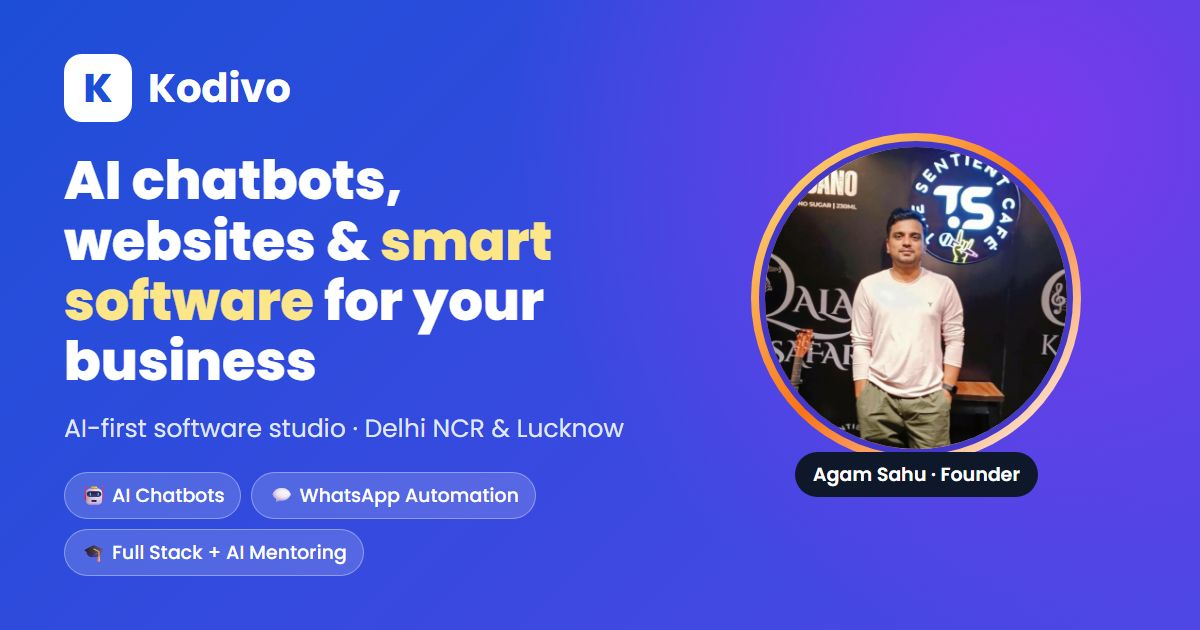
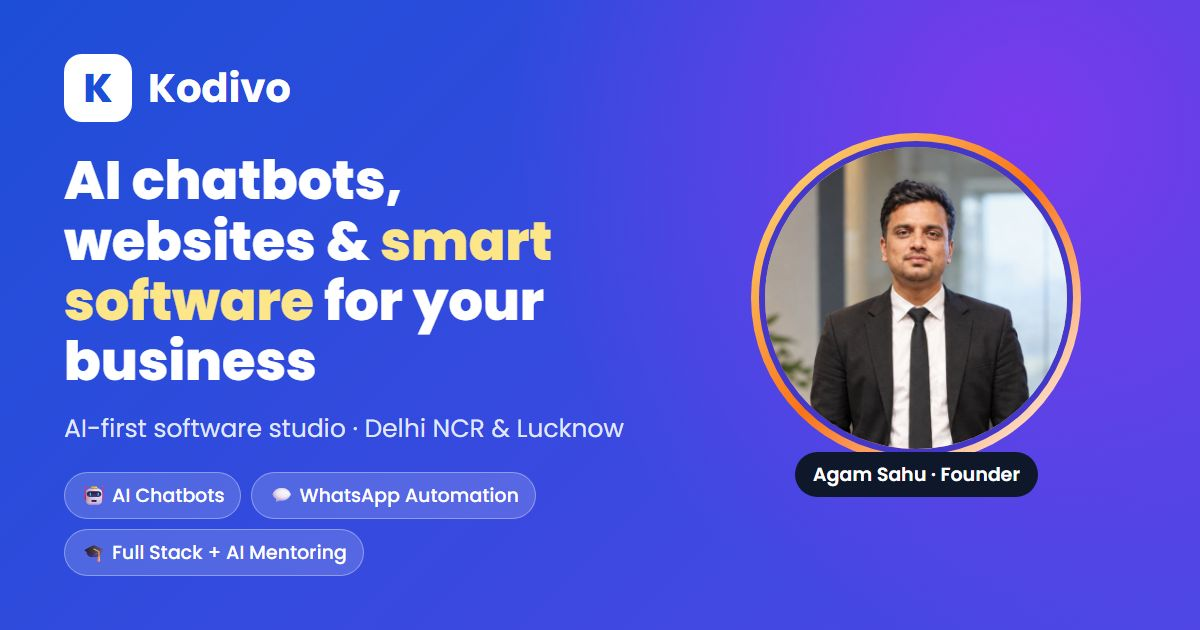
Use new professional founder photo on site and link preview

Changed region(s): [[0.6167, 0.2111, 0.8942, 0.7238]]

diff --git a/index.html b/index.html
@@ -11,7 +11,7 @@
   <meta property="og:url" content="https://agamsahu017.github.io/" />
   <meta property="og:title" content="Kodivo | AI chatbots, websites &amp; software · Delhi NCR &amp; Lucknow" />
   <meta property="og:description" content="AI-first software studio by Agam Sahu (8+ yrs). AI chatbots, WhatsApp automation, business software and websites. Launch offer for the first 10 clients." />
-  <meta property="og:image" content="https://agamsahu017.github.io/assets/og-image.jpg" />
+  <meta property="og:image" content="https://agamsahu017.github.io/assets/og-image.jpg?v=2" />
   <meta property="og:image:width" content="1200" />
   <meta property="og:image:height" content="630" />
   <meta property="og:image:alt" content="Kodivo: AI chatbots, websites and smart software, by founder Agam Sahu" />
@@ -33,7 +33,7 @@
     "description": "AI-first software studio building AI chatbots, automation, business software and websites.",
     "founder": { "@type": "Person", "name": "Agam Sahu", "jobTitle": "Founder" },
     "url": "https://agamsahu017.github.io/",
-    "image": "https://agamsahu017.github.io/assets/og-image.jpg",
+    "image": "https://agamsahu017.github.io/assets/og-image.jpg?v=2",
     "telephone": "+91-9235266579",
     "email": "agamsahu015@gmail.com",
     "address": { "@type": "PostalAddress", "addressLocality": "Lucknow", "addressRegion": "Uttar Pradesh", "addressCountry": "IN" },

diff --git a/delhi-ncr.html b/delhi-ncr.html
@@ -11,7 +11,7 @@
   <meta property="og:url" content="https://agamsahu017.github.io/delhi-ncr.html" />
   <meta property="og:title" content="AI Chatbot, Website &amp; Software in Delhi NCR | Kodivo" />
   <meta property="og:description" content="AI chatbots, WhatsApp automation, websites and custom software for businesses and startups in Delhi, Noida, Gurugram and Ghaziabad." />
-  <meta property="og:image" content="https://agamsahu017.github.io/assets/og-image.jpg" />
+  <meta property="og:image" content="https://agamsahu017.github.io/assets/og-image.jpg?v=2" />
   <meta property="og:image:width" content="1200" />
   <meta property="og:image:height" content="630" />
   <meta property="og:image:alt" content="Kodivo: AI chatbots, websites and smart software, by founder Agam Sahu" />
@@ -93,7 +93,7 @@
       "@type": "ProfessionalService",
       "name": "Kodivo",
       "url": "https://agamsahu017.github.io/",
-      "image": "https://agamsahu017.github.io/assets/og-image.jpg",
+      "image": "https://agamsahu017.github.io/assets/og-image.jpg?v=2",
       "telephone": "+91-9235266579",
       "areaServed": [
         "Delhi",

diff --git a/lucknow.html b/lucknow.html
@@ -11,7 +11,7 @@
   <meta property="og:url" content="https://agamsahu017.github.io/lucknow.html" />
   <meta property="og:title" content="Website &amp; AI Chatbot Developer in Lucknow | Kodivo" />
   <meta property="og:description" content="Websites, AI chatbots, WhatsApp automation and custom software for Lucknow businesses. Meet in person in Lucknow. Free consultation." />
-  <meta property="og:image" content="https://agamsahu017.github.io/assets/og-image.jpg" />
+  <meta property="og:image" content="https://agamsahu017.github.io/assets/og-image.jpg?v=2" />
   <meta property="og:image:width" content="1200" />
   <meta property="og:image:height" content="630" />
   <meta property="og:image:alt" content="Kodivo: AI chatbots, websites and smart software, by founder Agam Sahu" />
@@ -93,7 +93,7 @@
       "@type": "ProfessionalService",
       "name": "Kodivo",
       "url": "https://agamsahu017.github.io/",
-      "image": "https://agamsahu017.github.io/assets/og-image.jpg",
+      "image": "https://agamsahu017.github.io/assets/og-image.jpg?v=2",
       "telephone": "+91-9235266579",
       "areaServed": [
         "Lucknow",

diff --git a/ai-chatbot-whatsapp-automation.html b/ai-chatbot-whatsapp-automation.html
@@ -11,7 +11,7 @@
   <meta property="og:url" content="https://agamsahu017.github.io/ai-chatbot-whatsapp-automation.html" />
   <meta property="og:title" content="AI Chatbot &amp; WhatsApp Automation for Businesses | Kodivo" />
   <meta property="og:description" content="An AI assistant that answers customers 24×7 in Hindi &amp; English, books appointments and captures leads on your website and WhatsApp. Try the demo." />
-  <meta property="og:image" content="https://agamsahu017.github.io/assets/og-image.jpg" />
+  <meta property="og:image" content="https://agamsahu017.github.io/assets/og-image.jpg?v=2" />
   <meta property="og:image:width" content="1200" />
   <meta property="og:image:height" content="630" />
   <meta property="og:image:alt" content="Kodivo: AI chatbots, websites and smart software, by founder Agam Sahu" />

diff --git a/website-development.html b/website-development.html
@@ -11,7 +11,7 @@
   <meta property="og:url" content="https://agamsahu017.github.io/website-development.html" />
   <meta property="og:title" content="Website Development for Small Businesses | Kodivo" />
   <meta property="og:description" content="Fast, mobile-friendly business websites with Google SEO and WhatsApp booking. From ₹2,999 (launch offer). Delhi NCR &amp; Lucknow, ready in 5–7 days." />
-  <meta property="og:image" content="https://agamsahu017.github.io/assets/og-image.jpg" />
+  <meta property="og:image" content="https://agamsahu017.github.io/assets/og-image.jpg?v=2" />
   <meta property="og:image:width" content="1200" />
   <meta property="og:image:height" content="630" />
   <meta property="og:image:alt" content="Kodivo: AI chatbots, websites and smart software, by founder Agam Sahu" />

diff --git a/academy.html b/academy.html
@@ -11,7 +11,7 @@
   <meta property="og:url" content="https://agamsahu017.github.io/academy.html" />
   <meta property="og:title" content="Kodivo Academy | Learn Full Stack + AI from a Senior Engineer" />
   <meta property="og:description" content="1:1 mentoring, interview prep, weekend batches and a FREE live session on becoming a developer in the AI era. For students and 0–3 yr developers." />
-  <meta property="og:image" content="https://agamsahu017.github.io/assets/og-image.jpg" />
+  <meta property="og:image" content="https://agamsahu017.github.io/assets/og-image.jpg?v=2" />
   <meta property="og:image:width" content="1200" />
   <meta property="og:image:height" content="630" />
   <meta property="og:image:alt" content="Kodivo: AI chatbots, websites and smart software, by founder Agam Sahu" />

diff --git a/demo.html b/demo.html
@@ -11,7 +11,7 @@
   <meta property="og:url" content="https://agamsahu017.github.io/demo.html" />
   <meta property="og:title" content="Try our AI Chatbot Demo | Kodivo" />
   <meta property="og:description" content="Chat with a sample AI receptionist for a clinic, coaching institute or restaurant. Replies in English &amp; Hinglish and captures leads 24×7." />
-  <meta property="og:image" content="https://agamsahu017.github.io/assets/og-image.jpg" />
+  <meta property="og:image" content="https://agamsahu017.github.io/assets/og-image.jpg?v=2" />
   <meta property="og:image:width" content="1200" />
   <meta property="og:image:height" content="630" />
   <meta property="og:image:alt" content="Kodivo: AI chatbots, websites and smart software, by founder Agam Sahu" />

diff --git a/privacy.html b/privacy.html
@@ -11,7 +11,7 @@
   <meta property="og:url" content="https://agamsahu017.github.io/privacy.html" />
   <meta property="og:title" content="Privacy Policy | Kodivo" />
   <meta property="og:description" content="How Kodivo collects, uses and protects your information." />
-  <meta property="og:image" content="https://agamsahu017.github.io/assets/og-image.jpg" />
+  <meta property="og:image" content="https://agamsahu017.github.io/assets/og-image.jpg?v=2" />
   <meta property="og:image:width" content="1200" />
   <meta property="og:image:height" content="630" />
   <meta property="og:image:alt" content="Kodivo: AI chatbots, websites and smart software, by founder Agam Sahu" />
